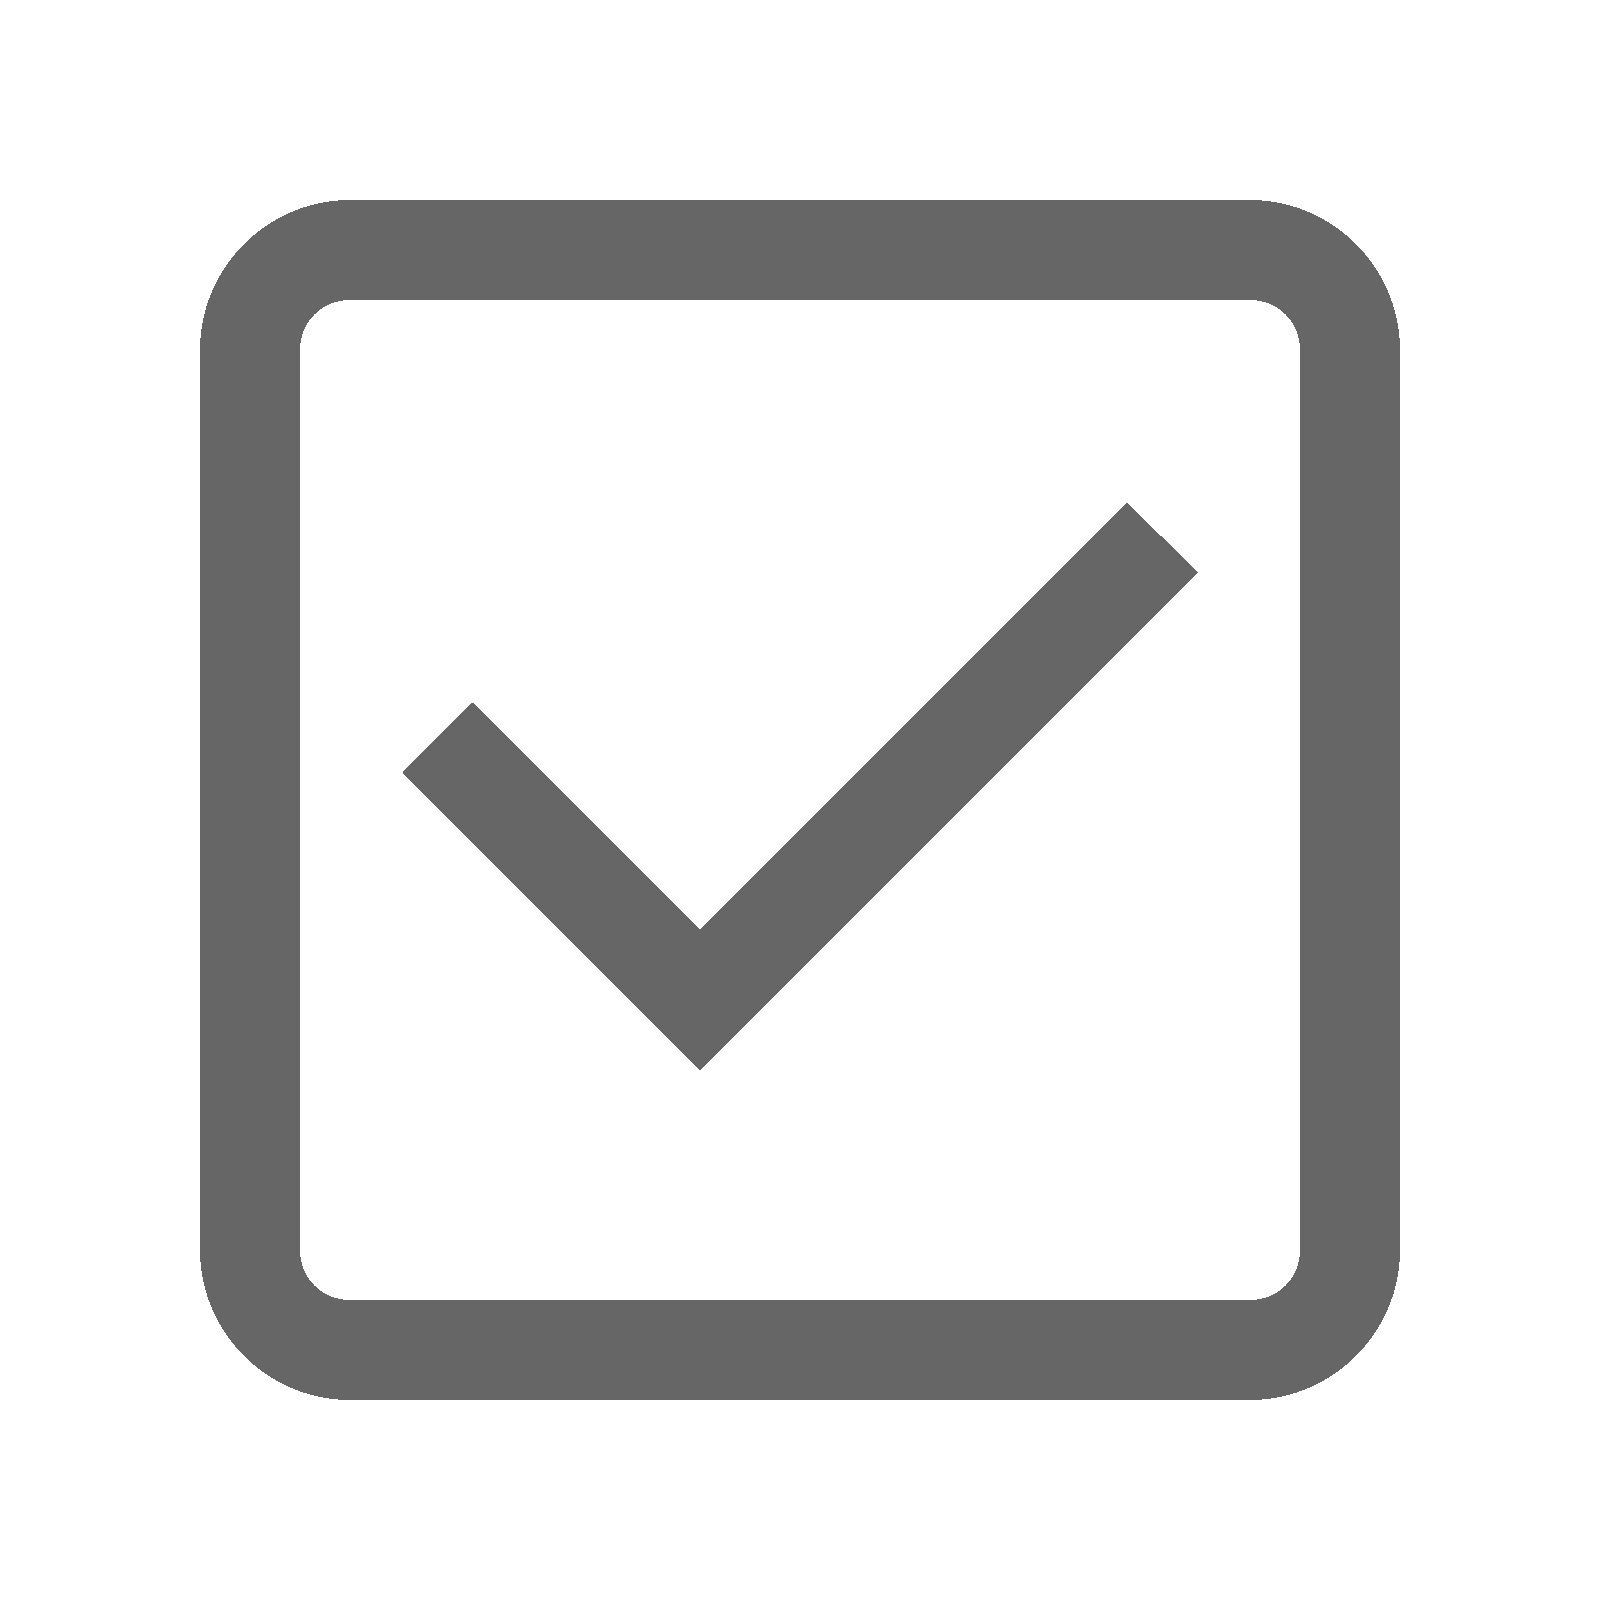
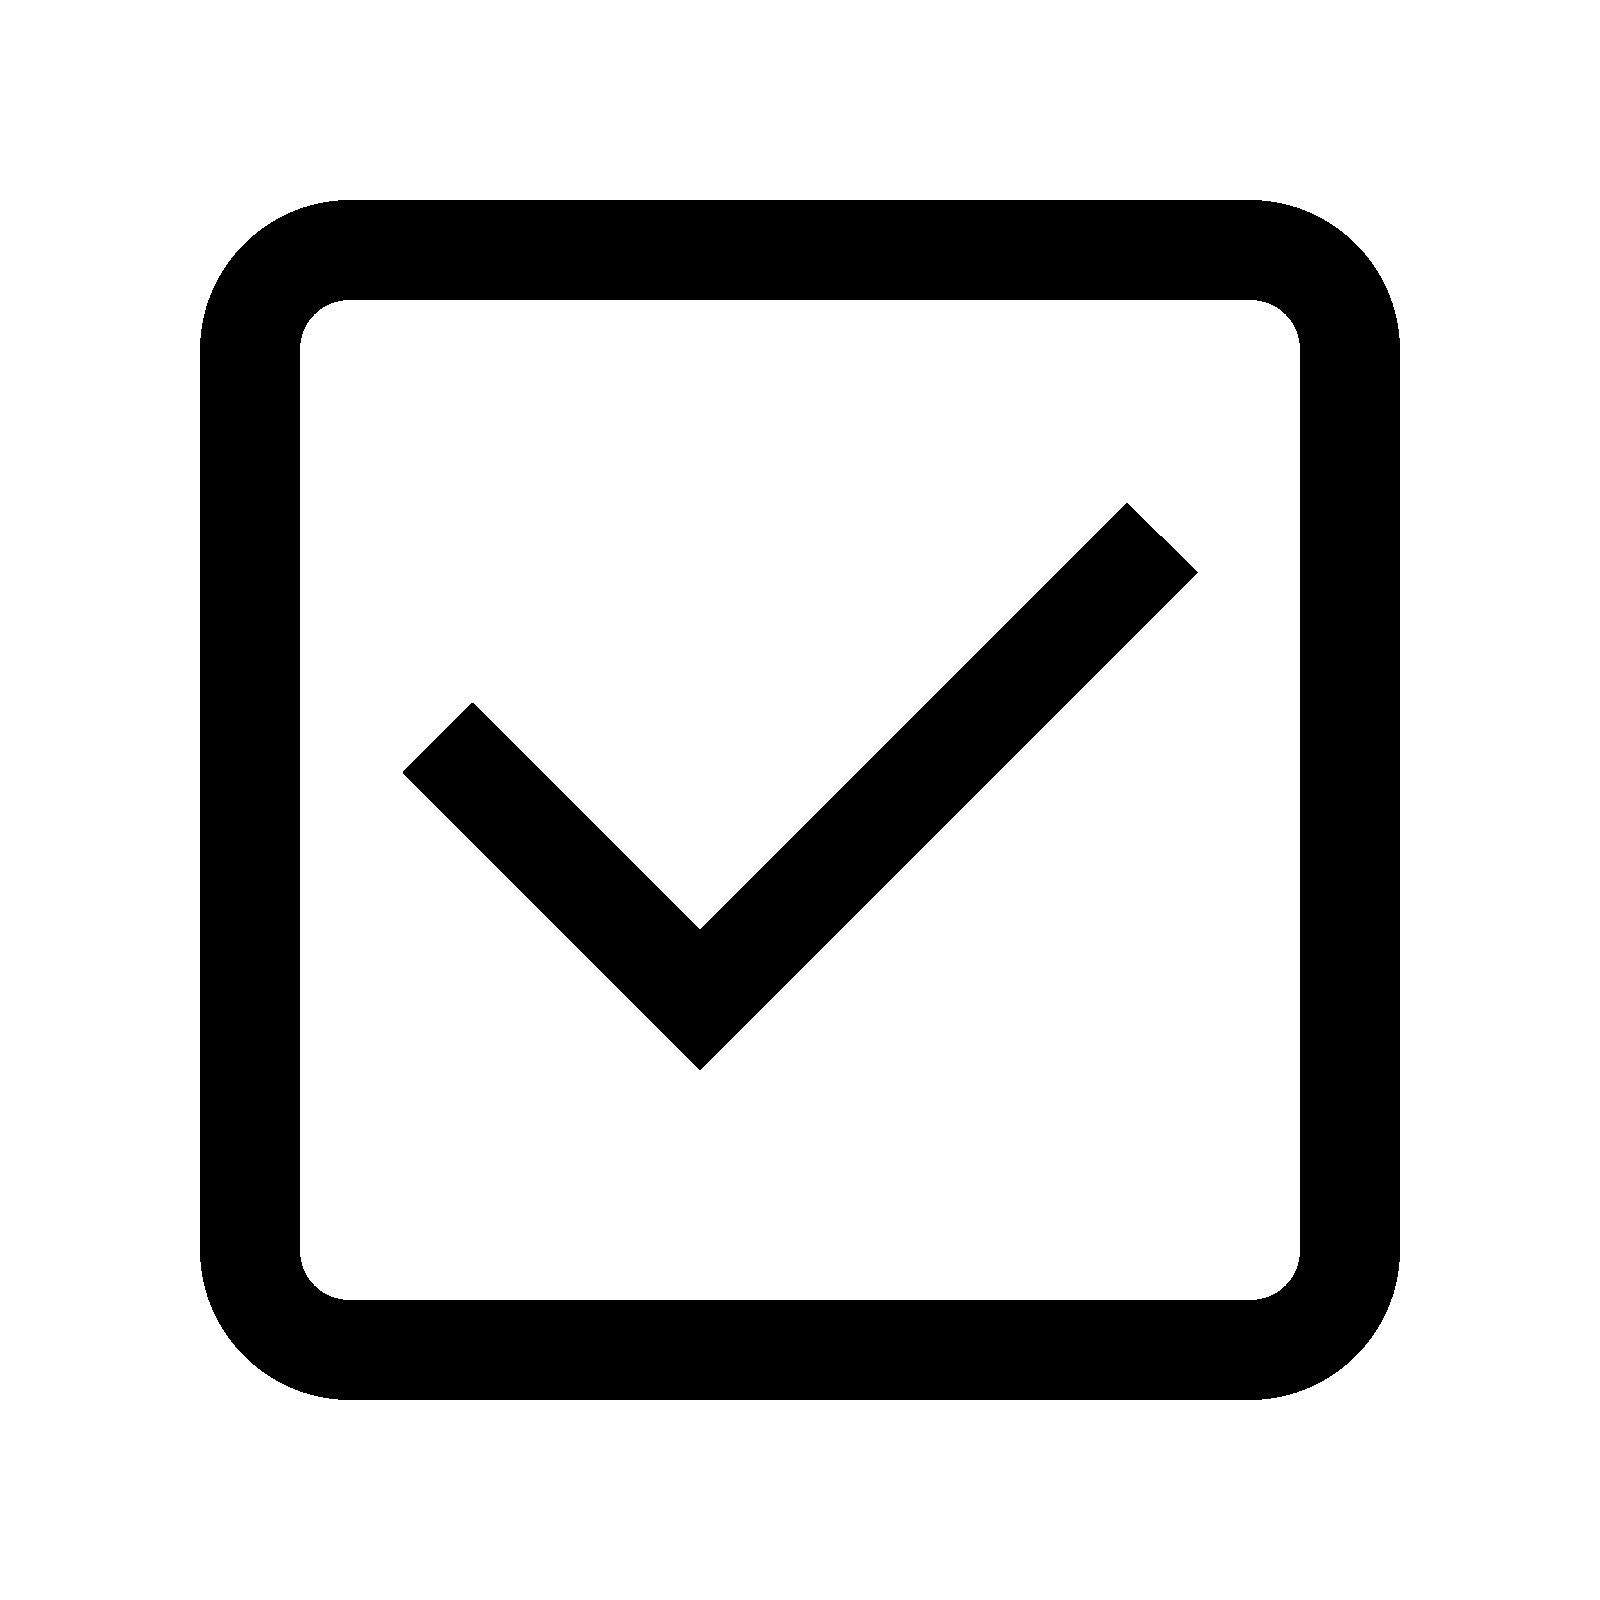
Darkened text even more, thickened download button

Changed region(s): [[0.125, 0.125, 0.875, 0.875], [0.25, 0.3125, 0.75, 0.6562]]

diff --git a/siteBase/resources/style.css b/siteBase/resources/style.css
@@ -10,11 +10,19 @@
   src: url(https://fonts.gstatic.com/s/robotocondensed/v19/ieVi2ZhZI2eCN5jzbjEETS9weq8-33mZGCQYbw.woff2) format('woff2');
   unicode-range: U+0000-00FF, U+0131, U+0152-0153, U+02BB-02BC, U+02C6, U+02DA, U+02DC, U+2000-206F, U+2074, U+20AC, U+2122, U+2191, U+2193, U+2212, U+2215, U+FEFF, U+FFFD;
 }
+@font-face {
+  font-family: 'Roboto';
+  font-style: normal;
+  font-weight: 400;
+  font-display: swap;
+  src: url(https://fonts.gstatic.com/s/roboto/v20/KFOmCnqEu92Fr1Mu4mxK.woff2) format('woff2');
+  unicode-range: U+0000-00FF, U+0131, U+0152-0153, U+02BB-02BC, U+02C6, U+02DA, U+02DC, U+2000-206F, U+2074, U+20AC, U+2122, U+2191, U+2193, U+2212, U+2215, U+FEFF, U+FFFD;
+}
 body {
   background-image: url("../resources/bg.png");
   background-repeat: repeat;
   font-size: 36px;
-  color: rgb(78, 78, 78);
+  color: rgb(0, 0, 0);
   font-family: 'Roboto Condensed', sans-serif;
   text-align: center;
 }

diff --git a/siteBase/index.html b/siteBase/index.html
@@ -17,7 +17,7 @@
   <br>
   <br>
   <div class="gradient">
-    <a onclick="downloadPack()" style="color: black;cursor: pointer;font-size: 36px;"><b>Download</b></a>
+    <a onclick="downloadPack()" style="color: black;cursor: pointer;font-size: 40px;font-family: 'Roboto', sans-serif;"><b>Download</b></a>
   </div>
   <div class="credit">
     <a href="https://github.com/OpenSauce04/OSBESdl">Download page built by OpenSauce</a><br>
